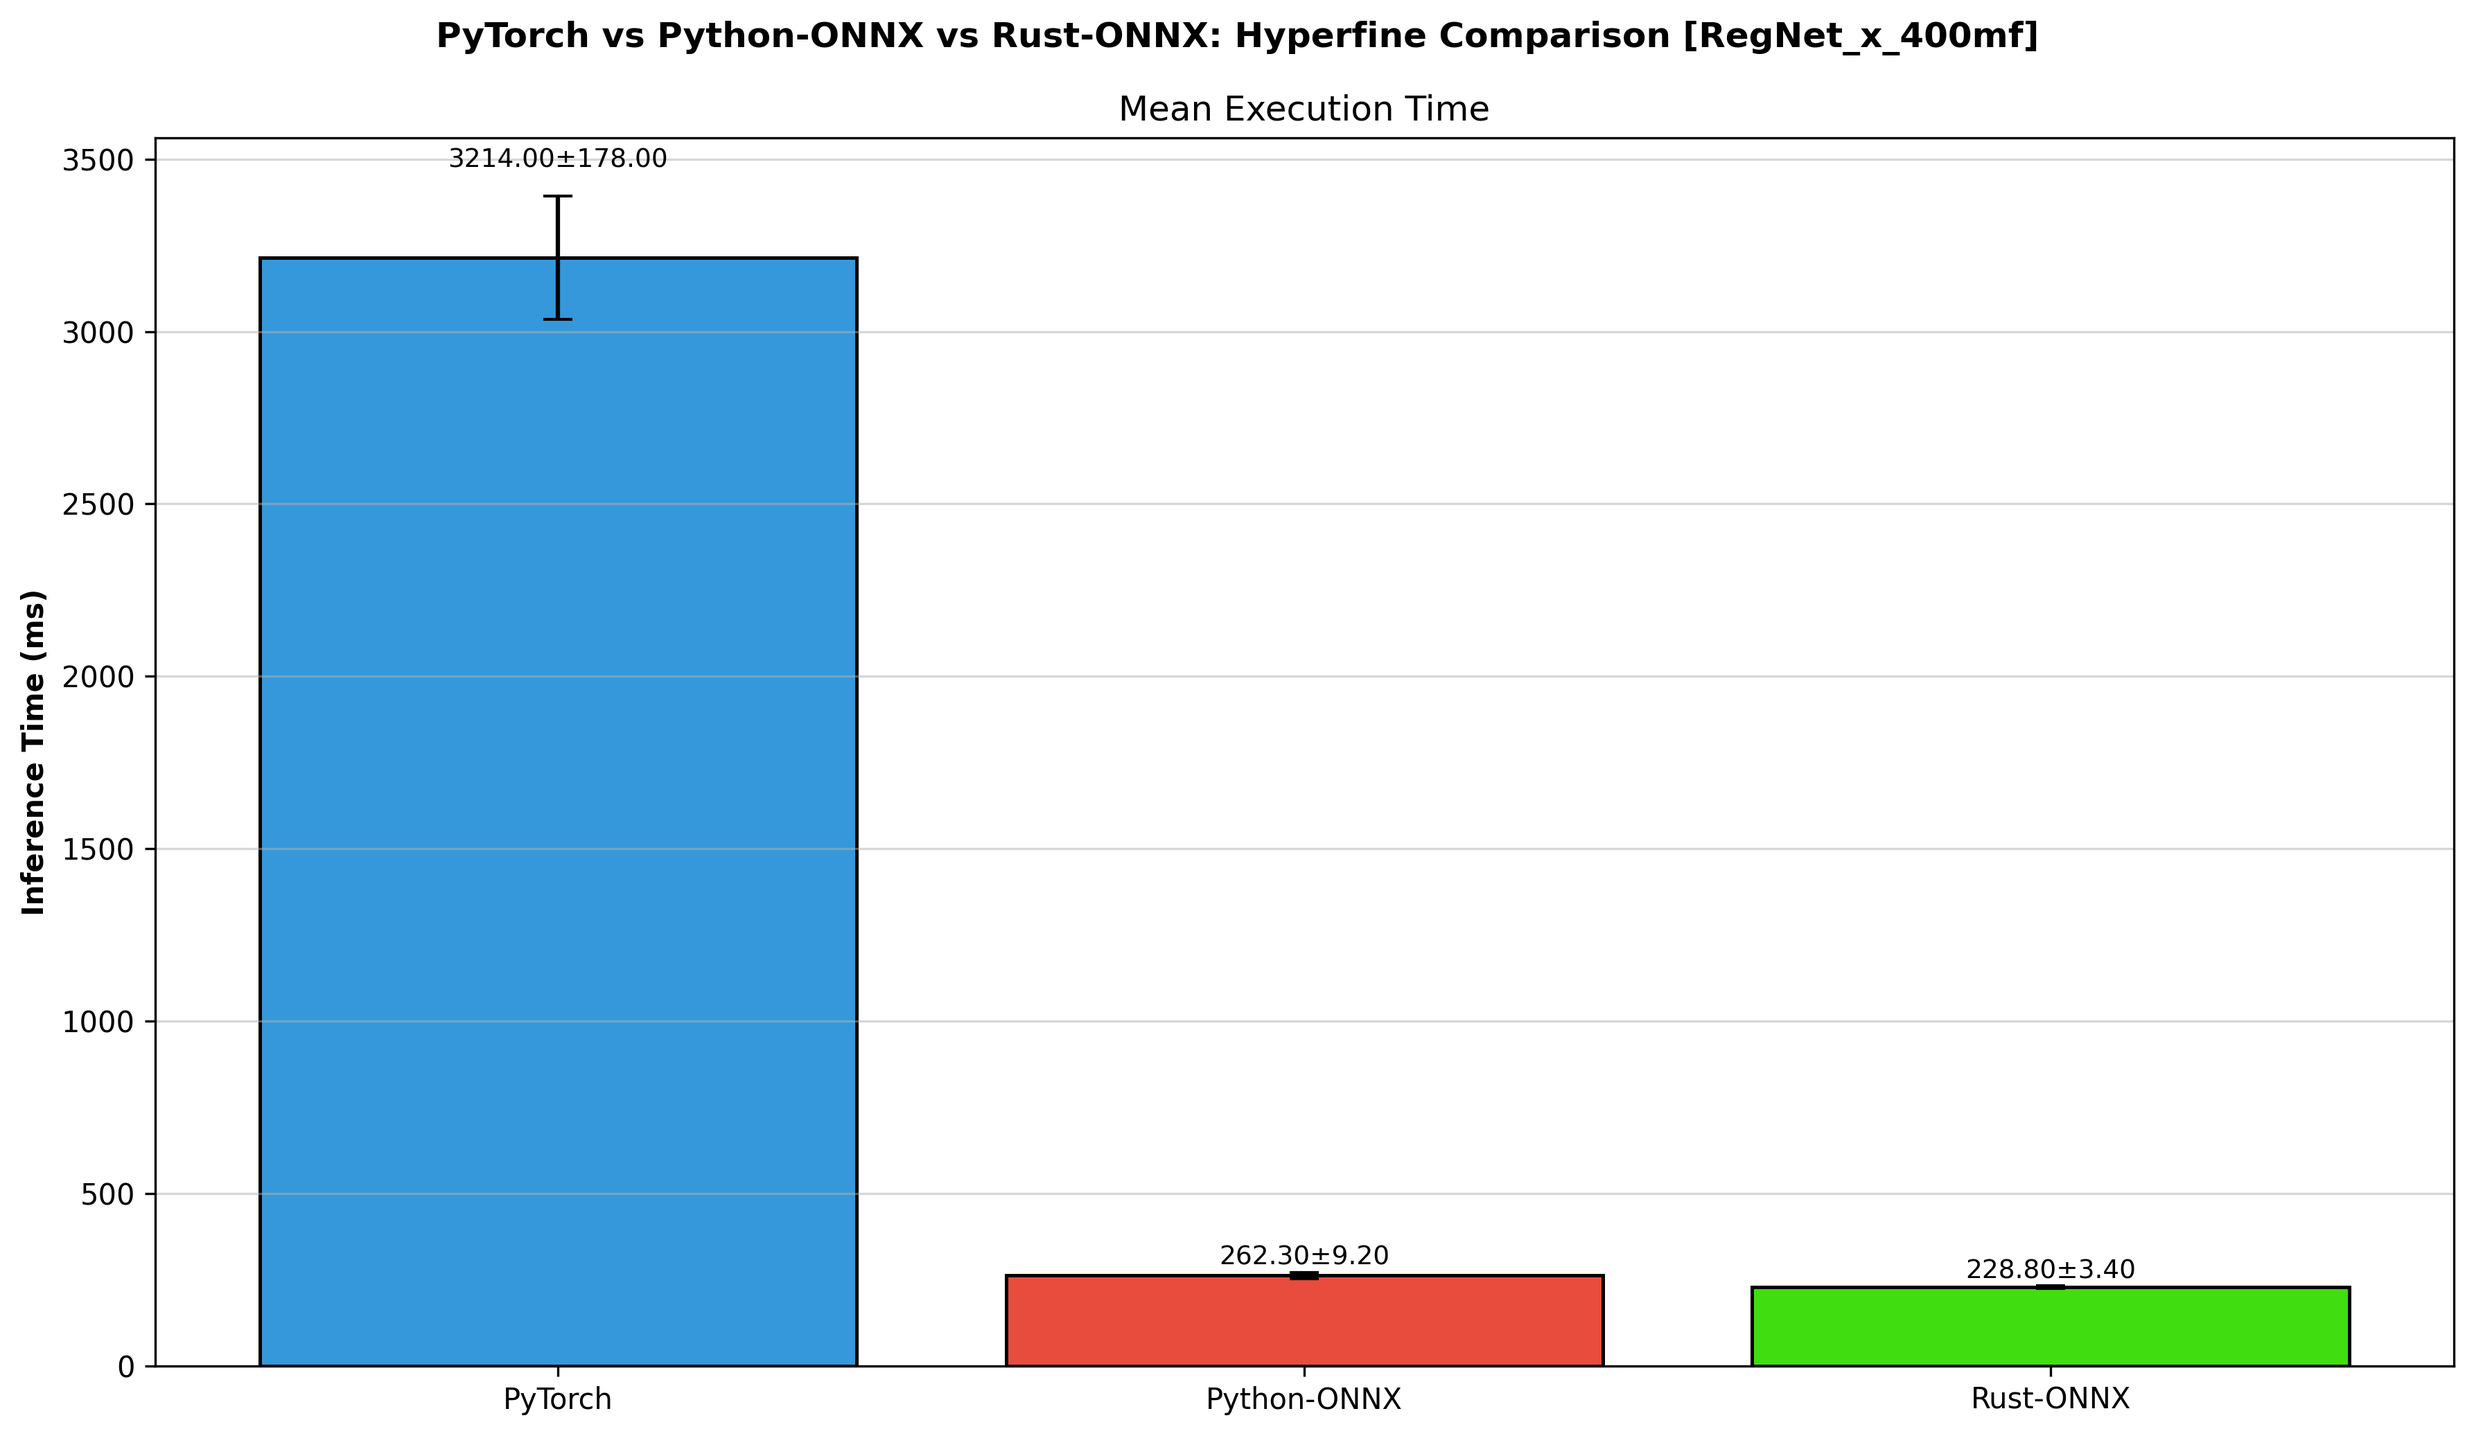
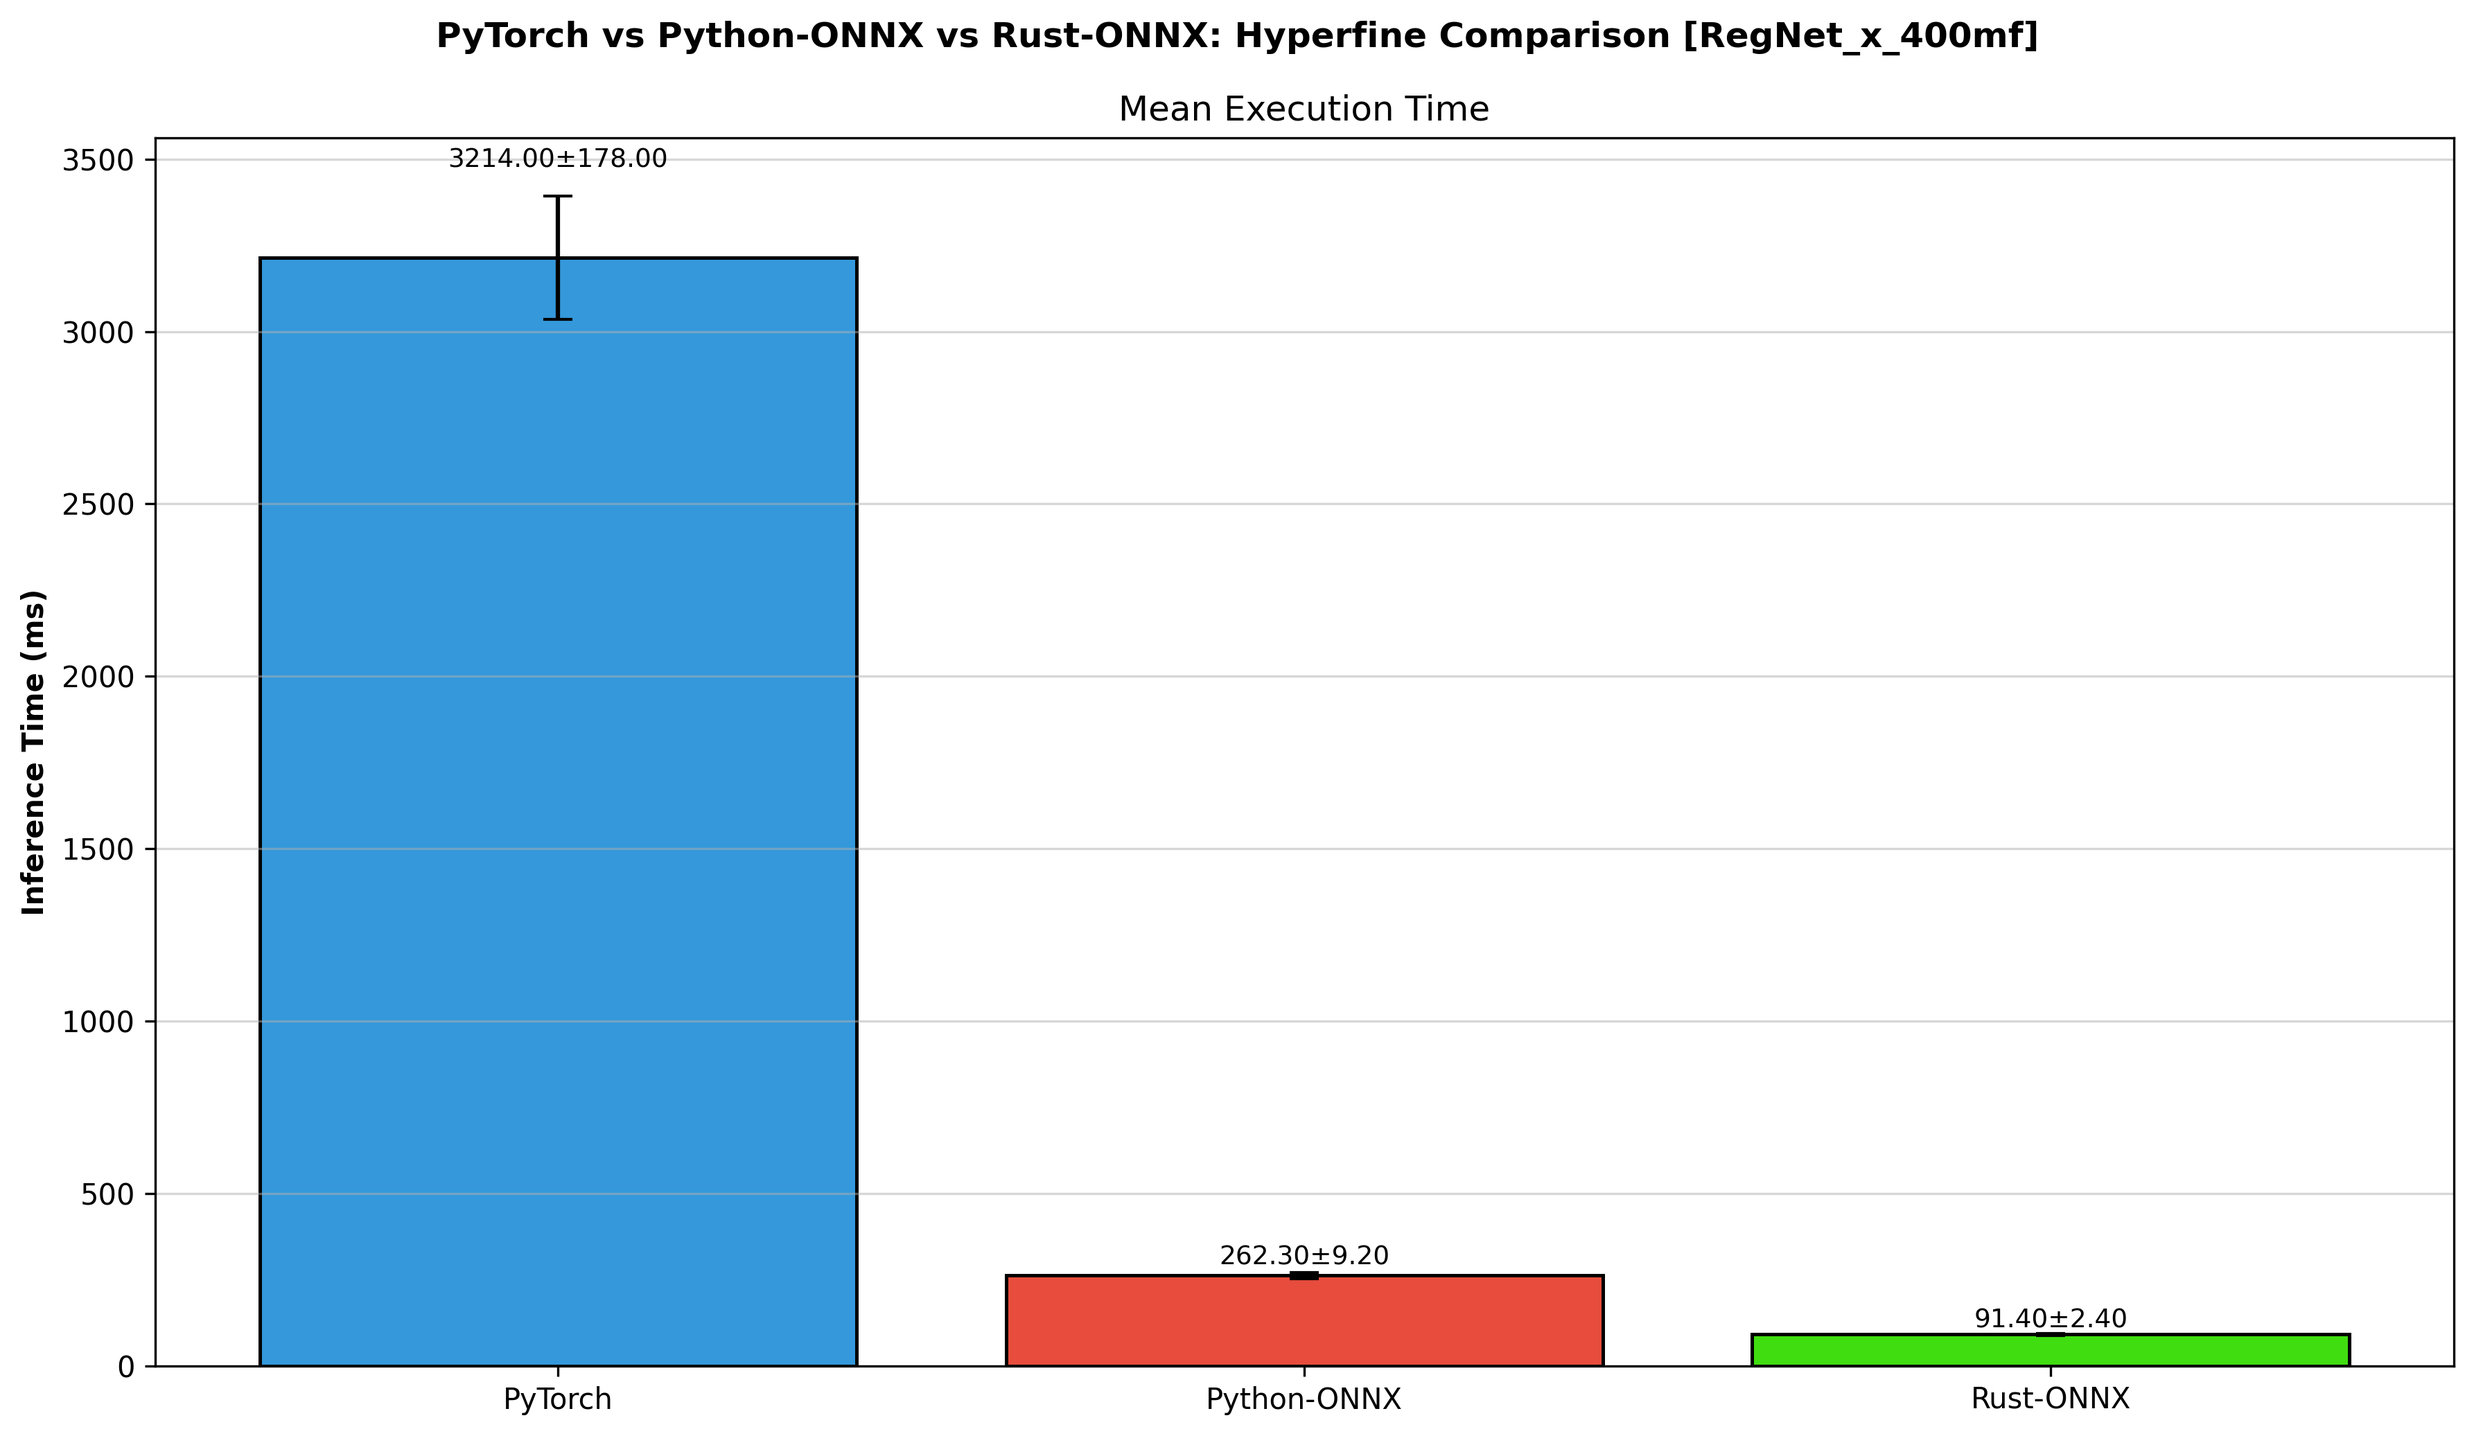
Saving final article

Changed region(s): [[0.684, 0.8644, 0.9639, 0.9571]]

diff --git a/ml-onnx/src/bin/onnx_benchmark_full.rs b/ml-onnx/src/bin/onnx_benchmark_full.rs
@@ -108,7 +108,7 @@ fn main() -> Result<()> {
     headers.dedup();
 
     // Write to CSV
-    let filename: String = format!("./data/benchmarks/{}_benchmark_batch_rs_full.csv", model_name);
+    let filename: String = format!("./data/{}_benchmark_batch_inc_pre.csv", model_name);
     let mut wtr = Writer::from_path(&filename)?;
     wtr.write_record(&headers)?;
 

diff --git a/ml-onnx/scripts/create_plots_hyperfine.py b/ml-onnx/scripts/create_plots_hyperfine.py
@@ -17,8 +17,8 @@ def create_detailed_comparison_plot(save_path=None, figsize=(12, 7)):
     pytorch_std =  178
     onnx_mean = 262.3
     onnx_std = 9.2
-    rs_onnx_mean = 228.8
-    rs_onnx_std = 3.4
+    rs_onnx_mean = 91.4
+    rs_onnx_std = 2.4
     
     models = ['PyTorch', 'Python-ONNX', "Rust-ONNX"]
     means = [pytorch_mean, onnx_mean, rs_onnx_mean]

diff --git a/ml-onnx/src/bin/onnx_benchmark.rs b/ml-onnx/src/bin/onnx_benchmark.rs
@@ -125,7 +125,7 @@ fn main() -> Result<()> {
     headers.dedup();
 
     // Write to CSV
-    let filename: String = format!("./data/benchmarks/{}_benchmark_batch_rs_1.csv", model_name);
+    let filename: String = format!("./data/{}_benchmark_batch_no_pre.csv", model_name);
     let mut wtr = Writer::from_path(&filename)?;
     wtr.write_record(&headers)?;
 

diff --git a/ml-onnx/articles/a2_pytorch_onnx_rust_benchmarks.md b/ml-onnx/articles/a2_pytorch_onnx_rust_benchmarks.md
@@ -2,11 +2,119 @@
 
 ## [1] Overview
 
-## [6] Summary
+I have dug into using ONNX for inference in Python and Rust previously. However, I wanted to examine further the differences 
+between the languages to see what how exactly they break down. So here I am mostly going to be looking at the results and seeing how these two approaches stack up. 
 
-## [7] References
+I'll be looking at the runtime performance, the inference performance and peak memory usage between inference in PyTorch, Python ONNX and Rust ONNX. Disclaimer, I have setup a couple different methods to benchmark and evaluate to the best of my knowledge - however, there may be some details I have overlooked due to a gap in my knowledge. Nonetheless I will outline my methods below in-case you spot a flaw. I do think my results at least some directional idea and rough comparison. 
 
-1. 
+## [2] Methods
+
+Firstly, for my tests I and fined tuned 2 different models for image classification that I will be using. 
+
+1. RegNet_x_400mf
+2. RegNet_y_16gf
+
+Next I want to look at a few things:
+
+1. Overall runtime performance of the program
+2. CPU & Memory usage, better idea of the efficiency of the program
+3. Isolated inference performance
+
+To achieve this I utilized a combination of tools - which I am not going to focus on going into more detail here, but I would recommend for anyone to get more familiar with them: 
+
+1. [hyperfine](https://github.com/sharkdp/hyperfine)
+2. [perf](https://www.brendangregg.com/perf.html)
+3. Custom scripts 
+
+Here is a reference to each inference script / program I used. 
+1. [PyTorch Inference](../pytorch_inference.py)
+2. [ONNX Python Inference](../onnx_inference.py)
+3. [ONNX Rust Inference](../src/main.rs)
+
+## [3] Runtime Performance
+
+To look a the runtime performance I built a sepereate script / program for each test case I had. I then used the hyperfine command to run each multiple times and compile the results. 
+
+**PyTorch**
+
+```
+❯ hyperfine --warmup 2 --min-runs 5 'python pytorch_inference.py'
+Benchmark 1: python pytorch_inference.py
+  Time (mean ± σ):      3.214 s ±  0.178 s    [User: 3.863 s, System: 0.425 s]
+  Range (min … max):    3.005 s …  3.442 s    5 runs
+```
+
+**ONNX Python**
+
+```
+❯ hyperfine --warmup 2 --min-runs 5 'python onnx_inference.py'
+Benchmark 1: python onnx_inference.py
+  Time (mean ± σ):     262.3 ms ±   9.2 ms    [User: 1433.6 ms, System: 88.7 ms]
+  Range (min … max):   247.7 ms … 276.2 ms    11 runs
+```
+
+**ONNX Rust** 
+
+```
+❯ hyperfine --warmup 2 --min-runs 5 '/target/release/onnx-inference'
+Benchmark 1: ./target/release/onnx-inference
+  Time (mean ± σ):      91.4 ms ±   2.4 ms    [User: 272.9 ms, System: 56.4 ms]
+  Range (min … max):    87.8 ms …  97.6 ms    33 runs
+```
+
+Here are the compile results:
+
+![hyperfine results](./media/RegNet_x_400mf_hyperfine_comparison.png)
+
+I think what stands out to me the most is the massive gap between PyTorch and ONNX here. The gap between Python ONNX and Rust ONNX is in of itself pretty substaintial, but intuitively not that surprising. Seeing such a large difference between the two python based inference environments was interesting to see. Overall, we can see that on just pure runtime inference using Rust and ONNX is significantly faster. 
+
+
+## [3] Efficiency and Compute
+
+To further examine the efficiency and compute of each test case I used a combination of tools to collect a few data points. Perf for performance statistics, scalence for python profiling, flamegrpah and bytehound for rust profiling. Firstly I utiliize perf to look closely at the CPU based statistics, I've compile a few of the notable stats below. 
+
+| Case | CPU Cycles | CPUs Utilized | Total Time (s) | User Time (s) | System Time (s) | Total Instructions |
+| -------- | ------- | ------- | -------- | ------- | ------- | ------- |
+| PyTorch| 15,799,457,490 | 1.385 | 2.871612419 | 3.541983000 | 0.436259000 | 13,726,332,782 |
+| Python ONNX | 6,111,622,851 | 5.653 | 0.275582306 | 1.473852000 | 0.087991000 | 3,538,600,679 |
+| Rust ONNX | 1,201,657,193 | 3.548 | 0.089866657 | 0.258204000 | 0.063049000 | 979,190,216 |
+
+A note on Total vs User vs System Time. 
+
+**Total Time**: The total elapsed time from start to finish
+**User Time**: The time the CPU spends on the application's code
+**System Time**: The time the CPU spends on executing system-level code (system calls)
+
+From just looking at the table, we can intuitively see why Rust out performed - it had significantly less instructions. However, there is also another interesting insight, although Python ONNX also had less instructions then PyTorch - it also used significantly more CPUs, which is also evident in its User to Total time ratio. So likely part of the increase in performance for ONNX is that it parrallelizes more by default. The fact that rust used multiple CPU makes sense here because in the program I have it set to utilize mutliple threads.
+
+Using scalence and bytehound here is what I found the peak memory usage to be for each. 
+
+| Case| Peak Memory (M) |
+| -------- | ------- |
+| PyTorch | 221 |
+| Python ONNX | 53 |
+| Rust ONNX | 47.9 |
+
+Now peak memory is not everything, but it is a data point. Again rust came out on top but in this circumstance it was not signficatly different from the Python ONNX case.
+
+Overall we can see how both in terms of memory, instructions, CPU usage total time Rust is not only faster, but leverages compute resources much more effectly. 
+
+## [4] Isolated Inference Performance
+
+Lastly, I wanted to look at something a little more specific. Which was how fast only the inference portion runs. For this I wrote a custom benchmarking script that ran inference on all the test images and track how long each inference portion took. Here are the results: 
+
+![inference isolated results](./media/RegNet_x_400mf_benchmark_no_pre_plot.png)
+
+The results here are in line with what we have seen this far, however with the standard deviation there is not statistical difference between Python ONNX and Rust ONNX. However, as mentioned this test is very limited and frankly I would say not as precise as the others. The main takewaway I would say is that when it comes to the pure infernece call, there is not much difference between Python ONNX and Rust ONNX - which makes sense since they are at the end of the day calling the same model with the same number of parameters. The onyl real different being the system calls and instructions each program uses.
+
+## [5] Summary
+
+I think there are a couple of key takeaways from this benchmarking. 
+
+1. The difference between using PyTorch and Python ONNX is pretty substaintial across the board in all categories
+2. Using ONNX in Rust out-performs overall and has a substaintial upside, but in a couple of areas it is close to Python ONNX
+
+I hope this was helpful and interesting in both providing some practical numbers to each of these different approaches. Additionally, I hope it gave some insight into testing and evaluating the performance of these different programs. 
 
 ## Notes
 
@@ -76,4 +184,90 @@ Rust - With Graph Disabled, Threads = 8
 Benchmark 1: cargo run --release --bin onnx-inference
   Time (mean ± σ):     228.8 ms ±   3.4 ms    [User: 366.0 ms, System: 106.8 ms]
   Range (min … max):   221.6 ms … 232.8 ms    13 runs
+```
+
+Rust - With Graph Disabled, Threads = 8
+❯ hyperfine --warmup 2 --min-runs 5 './target/release/onnx-inference'                                                                                                               100%
+Benchmark 1: ./target/release/onnx-inference
+  Time (mean ± σ):      91.4 ms ±   2.4 ms    [User: 272.9 ms, System: 56.4 ms]
+  Range (min … max):    87.8 ms …  97.6 ms    33 runs
+
+
+##### Perf
+
+Run with: `perf stat <command>`
+
+Rust - With Graph Disabled, Threads = 8
+```
+ Performance counter stats for './target/release/onnx-inference':
+
+            318.82 msec task-clock                       #    3.548 CPUs utilized             
+               160      context-switches                 #  501.852 /sec                      
+                21      cpu-migrations                   #   65.868 /sec                      
+            15,967      page-faults                      #   50.082 K/sec                     
+     1,201,657,193      cycles                           #    3.769 GHz                       
+        88,624,041      stalled-cycles-frontend          #    7.38% frontend cycles idle      
+       979,190,216      instructions                     #    0.81  insn per cycle            
+                                                  #    0.09  stalled cycles per insn   
+       158,410,713      branches                         #  496.867 M/sec                     
+         3,370,940      branch-misses                    #    2.13% of all branches           
+
+       0.089866657 seconds time elapsed
+
+       0.258204000 seconds user
+       0.063049000 seconds sys
+
+```
+
+Python ONNX
+```
+ Performance counter stats for 'python onnx_inference.py':
+
+          1,558.00 msec task-clock                       #    5.653 CPUs utilized             
+               347      context-switches                 #  222.721 /sec                      
+                15      cpu-migrations                   #    9.628 /sec                      
+            28,474      page-faults                      #   18.276 K/sec                     
+     6,111,622,851      cycles                           #    3.923 GHz                       
+       234,623,772      stalled-cycles-frontend          #    3.84% frontend cycles idle      
+     3,538,600,679      instructions                     #    0.58  insn per cycle            
+                                                  #    0.07  stalled cycles per insn   
+       559,544,536      branches                         #  359.142 M/sec                     
+         9,051,248      branch-misses                    #    1.62% of all branches           
+
+       0.275582306 seconds time elapsed
+
+       1.473852000 seconds user
+       0.087991000 seconds sys
+
+```
+
+PyTorch
+```
+Running Inference on RegNet_x_400mf
+Inference Completed in 24.860001052729785ms
+
+=== Inference Results ===
+Predicted class index: 50
+Predicted class name: Paper Kite
+Confidence: 0.9957748055458069
+Completed in 72.83094199374318ms
+
+ Performance counter stats for 'python pytorch_inference.py':
+
+          3,976.30 msec task-clock                       #    1.385 CPUs utilized             
+               275      context-switches                 #   69.160 /sec                      
+                16      cpu-migrations                   #    4.024 /sec                      
+            89,963      page-faults                      #   22.625 K/sec                     
+    15,799,457,490      cycles                           #    3.973 GHz                       
+     2,613,814,359      stalled-cycles-frontend          #   16.54% frontend cycles idle      
+    13,726,332,782      instructions                     #    0.87  insn per cycle            
+                                                  #    0.19  stalled cycles per insn   
+     2,770,290,282      branches                         #  696.700 M/sec                     
+        73,013,174      branch-misses                    #    2.64% of all branches           
+
+       2.871612419 seconds time elapsed
+
+       3.541983000 seconds user
+       0.436259000 seconds sys
+
 ```
